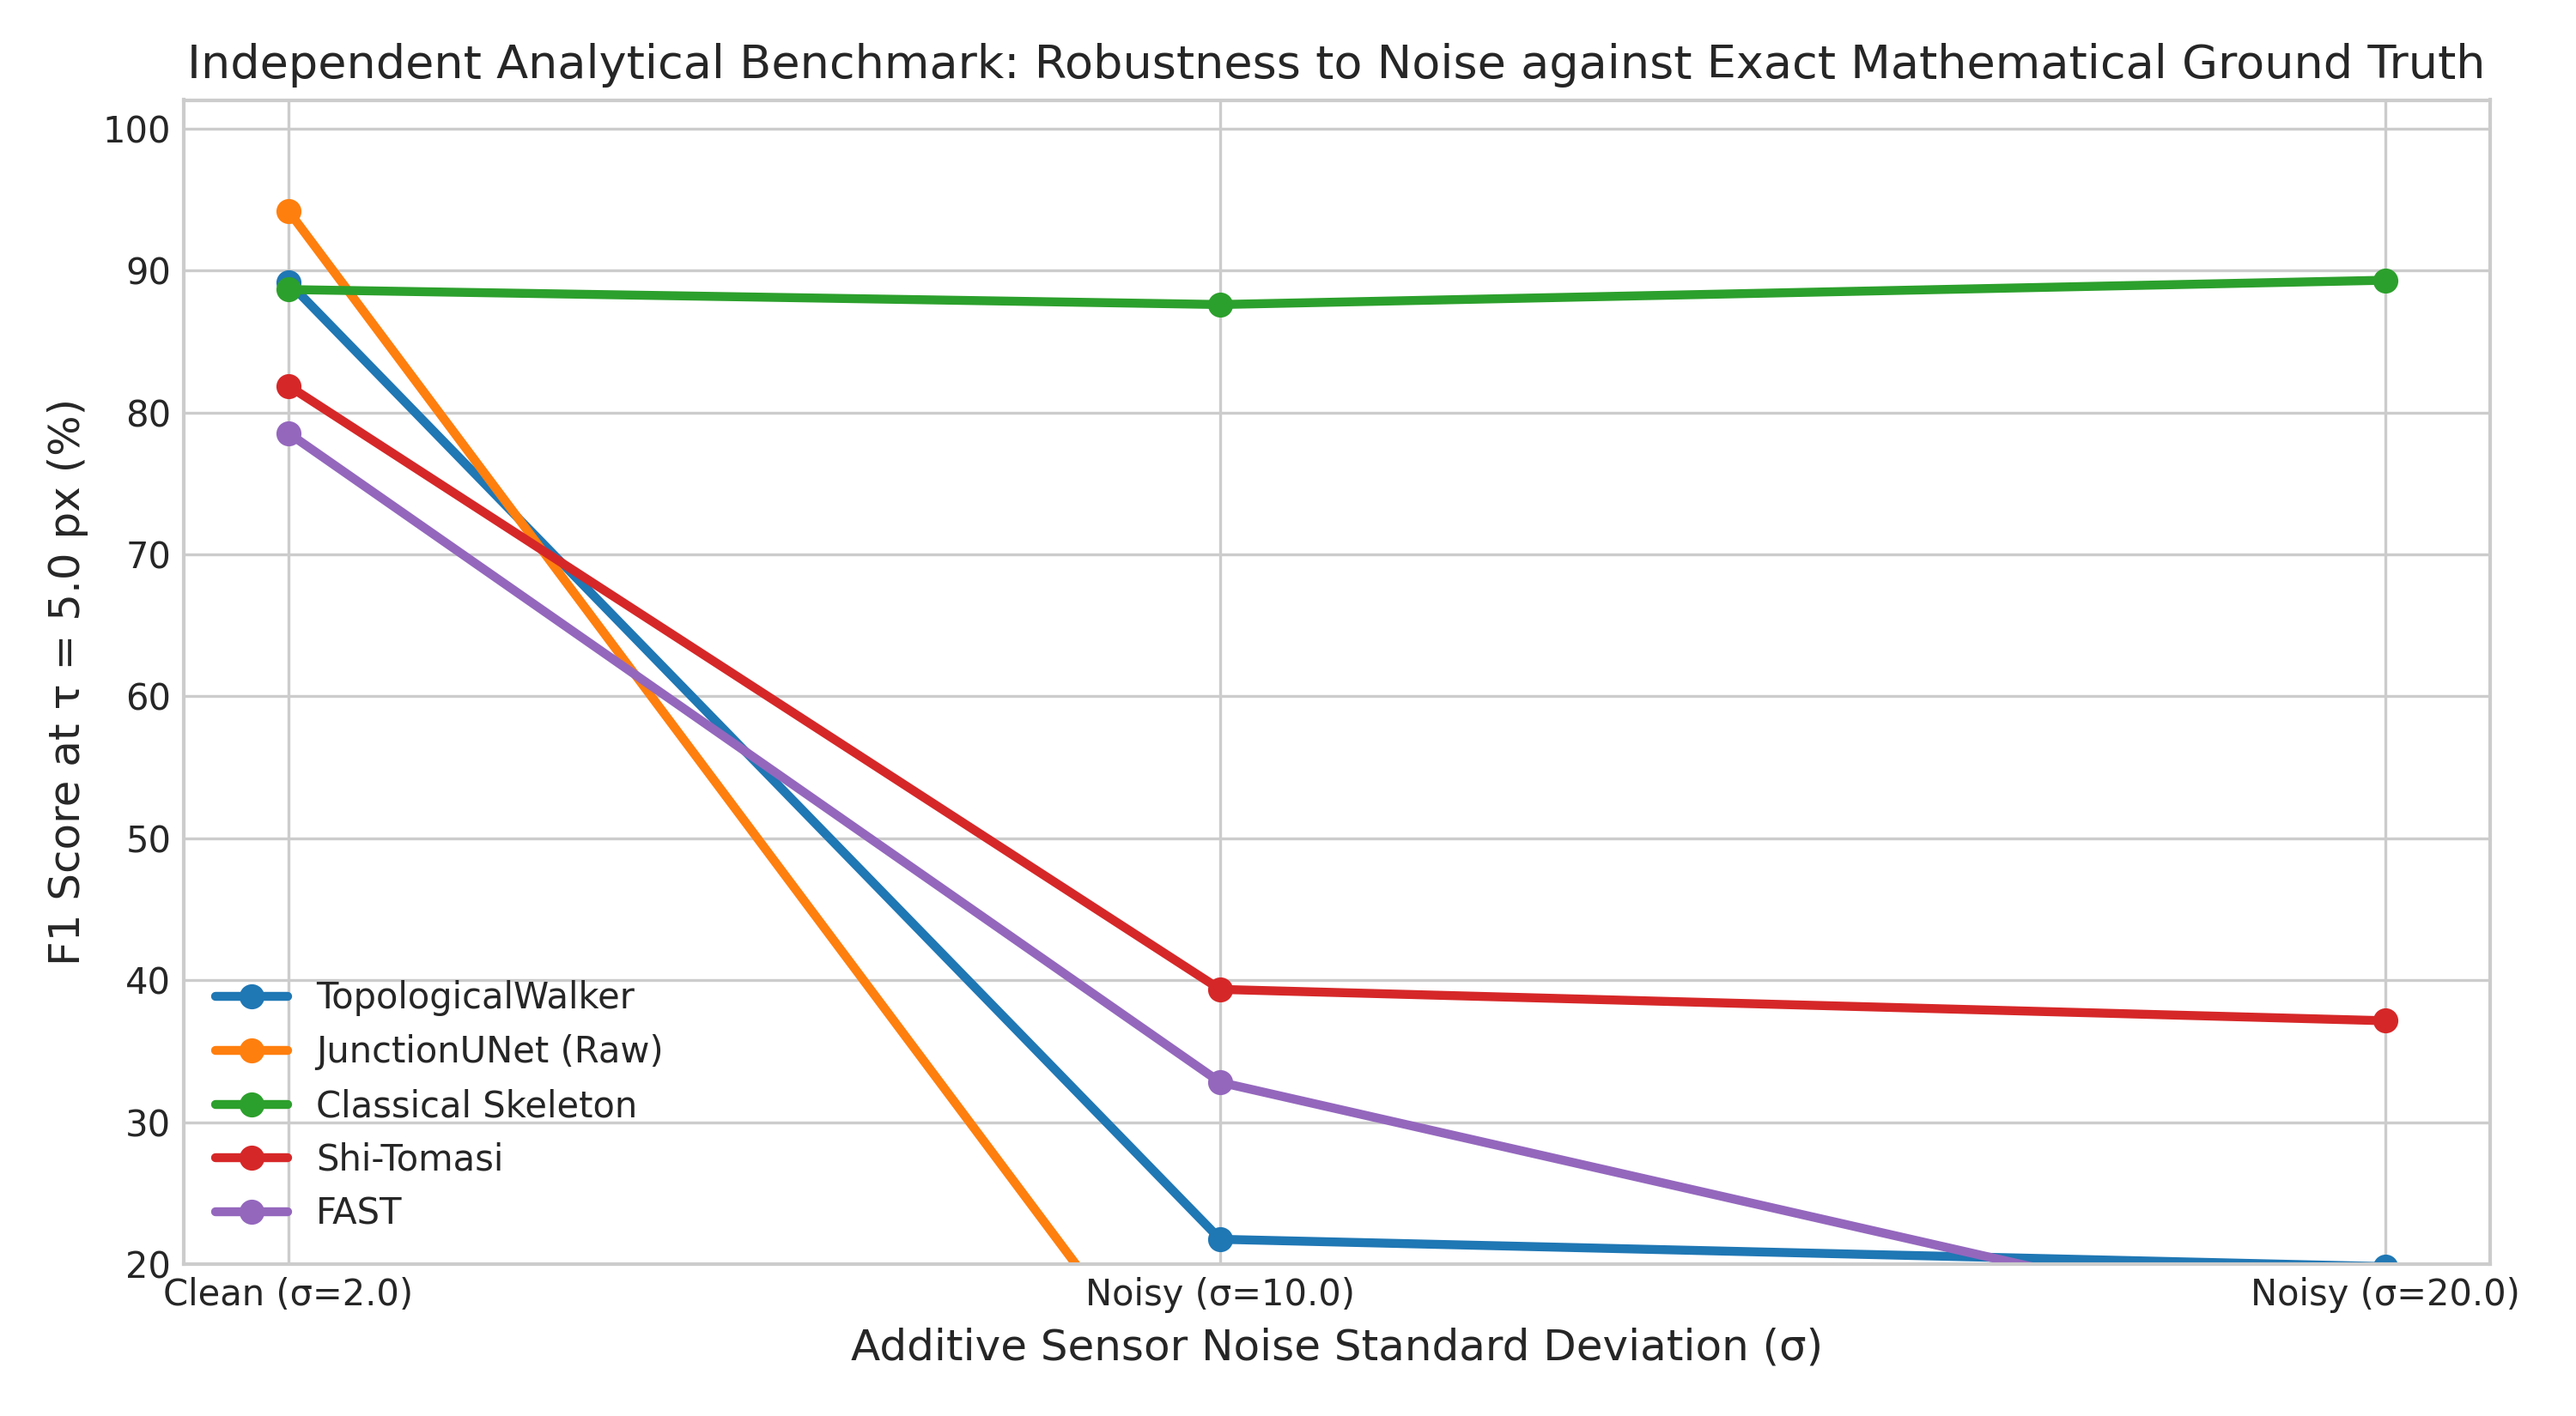
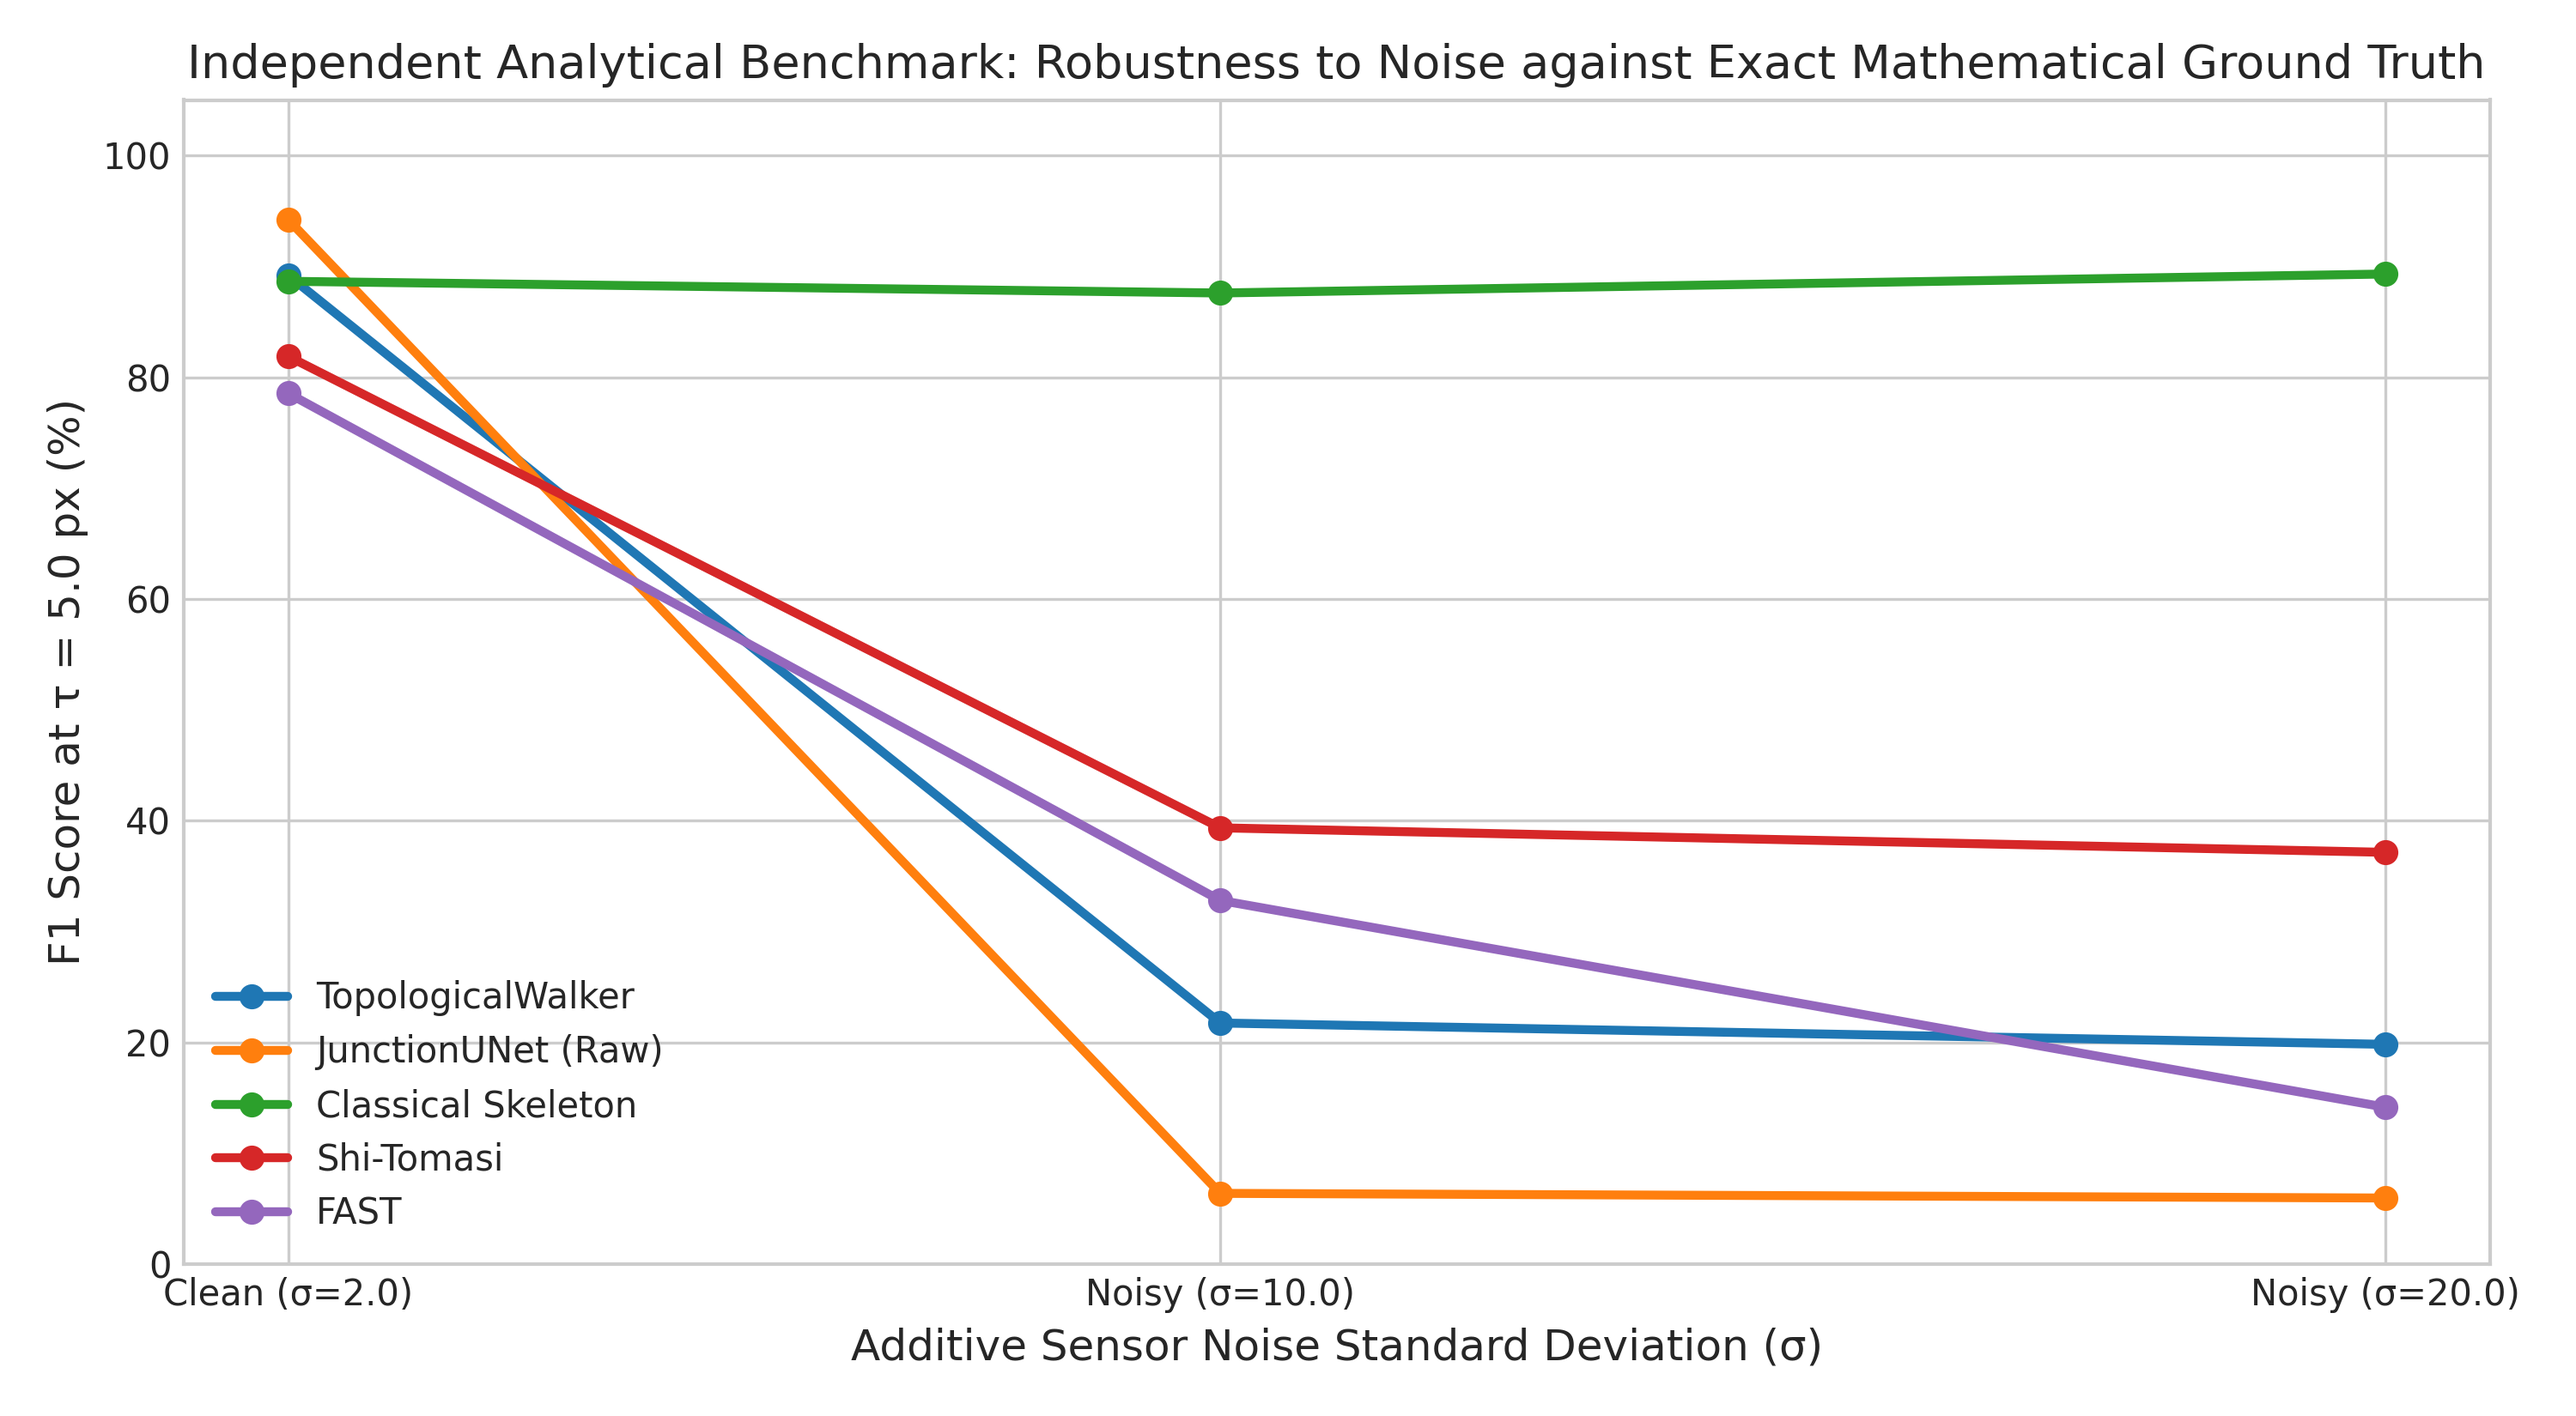
fix(plots): enhance benchmark visual overlays and fix matplotlib tick warnings

diff --git a/src/analysis/plot_empirical_findings.py b/src/analysis/plot_empirical_findings.py
@@ -96,6 +96,7 @@ def plot_baselines_dashboard(csv_path: Path):
     ax.axhline(1.0, color="gray", linestyle="--", linewidth=1.2, label="1.0 px Sub-Pixel Threshold")
     ax.set_ylabel("Mean Euclidean Error (pixels)")
     ax.set_title("(C) Spatial Localization Accuracy on True Positive Junctions")
+    ax.set_xticks(range(len(methods)))
     ax.set_xticklabels(methods, rotation=25, ha="right")
     ax.legend(loc="upper right")
     for bar in bars:
@@ -110,6 +111,7 @@ def plot_baselines_dashboard(csv_path: Path):
     ax.set_ylabel("Latency per Wing (ms, Log Scale)")
     ax.set_yscale("log")
     ax.set_title("(D) Computational Efficiency & Throughput")
+    ax.set_xticks(range(len(methods)))
     ax.set_xticklabels(methods, rotation=25, ha="right")
     for i, lat in enumerate(latencies):
         ax.annotate(f"{lat:.1f} ms", xy=(i, lat), xytext=(0, 4),
@@ -229,7 +231,7 @@ def plot_biological_hypotheses(json_path: Path, features_csv: Path):
     ax = axes[1, 0]
     fore_comp = df[df["wing_type"] == "forewing"]["wing_compactness_mec"]
     hind_comp = df[df["wing_type"] == "hindwing"]["wing_compactness_mec"]
-    bp = ax.boxplot([fore_comp.dropna(), hind_comp.dropna()], labels=["Forewing", "Hindwing"],
+    bp = ax.boxplot([fore_comp.dropna(), hind_comp.dropna()], tick_labels=["Forewing", "Hindwing"],
                     patch_artist=True, widths=0.5)
     colors = ["#3288bd", "#d53e4f"]
     for patch, c in zip(bp["boxes"], colors):
@@ -254,7 +256,7 @@ def plot_biological_hypotheses(json_path: Path, features_csv: Path):
     fams = ["Gomphidae", "Aeshnidae", "Libellulidae", "Corduliidae"]
     fam_data = [df[df["fam"] == f]["aspect_ratio"].dropna() for f in fams]
 
-    bp2 = ax.boxplot(fam_data, labels=fams, patch_artist=True, widths=0.5)
+    bp2 = ax.boxplot(fam_data, tick_labels=fams, patch_artist=True, widths=0.5)
     fam_colors = ["#66c2a5", "#fc8d62", "#8da0cb", "#e78ac3"]
     for patch, c in zip(bp2["boxes"], fam_colors):
         patch.set_facecolor(c)
@@ -294,7 +296,8 @@ def plot_synthetic_benchmark(csv_path: Path):
     ax.set_title("Independent Analytical Benchmark: Robustness to Noise against Exact Mathematical Ground Truth")
     ax.set_xticks(noise_levels)
     ax.set_xticklabels([f"Clean (σ={n})" if n==2 else f"Noisy (σ={n})" for n in noise_levels])
-    ax.set_ylim(20, 102)
+    ax.set_ylim(0, 105)
+    ax.set_yticks(range(0, 101, 20))
     ax.legend(loc="lower left")
 
     plt.tight_layout()
@@ -331,7 +334,7 @@ def plot_pigmented_stress_test(csv_path: Path):
     # Panel B: False Positive Distribution Comparison
     ax = axes[1]
     bp = ax.boxplot([df["tw_pigment_fp_rate_pct"], df["unet_pigment_fp_rate_pct"]],
-                    labels=["TopologicalWalker", "JunctionUNet"], patch_artist=True, widths=0.45)
+                    tick_labels=["TopologicalWalker", "JunctionUNet"], patch_artist=True, widths=0.45)
     bp["boxes"][0].set_facecolor("#1f77b4")
     bp["boxes"][1].set_facecolor("#ff7f0e")
     for patch in bp["boxes"]:

diff --git a/src/benchmark/plot_unified_benchmark.py b/src/benchmark/plot_unified_benchmark.py
@@ -70,7 +70,7 @@ def plot_visual_4panel_comparison(
     s_gt = synth_gt[s_valid] - np.array([300, 100], dtype=np.float32)
 
     # 3. PNAS Real Dragonfly
-    p_crop, p_gt, _ = load_pnas_dragonfly_benchmark(crop_box=(450, 650, 1100, 1400))
+    p_crop, p_gt, _ = load_pnas_dragonfly_benchmark(crop_box=(300, 500, 2200, 2500))
 
     # 4. DRIVE Retina
     d_full, d_gt, _ = load_drive_retina_benchmark(index=1)
@@ -119,9 +119,11 @@ def plot_visual_4panel_comparison(
         # Column 1: Ground Truth Overlay
         axes[row_idx, 1].imshow(img, cmap="gray")
         if len(gt) > 0:
-            axes[row_idx, 1].scatter(gt[:, 0], gt[:, 1], c="#00FF66", s=22, edgecolors="black", linewidths=0.5, label="Ground Truth")
+            axes[row_idx, 1].scatter(gt[:, 0], gt[:, 1], c="#00E676", s=28, edgecolors="black", linewidths=0.7, label="Ground Truth")
         axes[row_idx, 1].set_title(f"Ground Truth Junctions\n(N = {len(gt)})", fontsize=11, fontweight="bold")
         axes[row_idx, 1].axis("off")
+        if row_idx == 0:
+            axes[row_idx, 1].legend(loc="lower right", fontsize=8.5, framealpha=0.85)
 
         # Column 2: UNet Prediction Overlay
         axes[row_idx, 2].imshow(img, cmap="gray")
@@ -129,12 +131,14 @@ def plot_visual_4panel_comparison(
             tp_pts = preds[tp_pred]
             fp_pts = preds[~tp_pred]
             if len(tp_pts) > 0:
-                axes[row_idx, 2].scatter(tp_pts[:, 0], tp_pts[:, 1], c="#00E5FF", s=24, marker="o", edgecolors="black", linewidths=0.5, label="True Positive (<=5px)")
+                axes[row_idx, 2].scatter(tp_pts[:, 0], tp_pts[:, 1], c="#0055FF", s=30, marker="o", edgecolors="black", linewidths=0.8, label="True Positive (<=5px)")
             if len(fp_pts) > 0:
-                axes[row_idx, 2].scatter(fp_pts[:, 0], fp_pts[:, 1], c="#FF1744", s=18, marker="x", linewidths=1.0, label="False Positive")
+                axes[row_idx, 2].scatter(fp_pts[:, 0], fp_pts[:, 1], c="#FF1744", s=26, marker="x", linewidths=1.3, label="False Positive")
 
         axes[row_idx, 2].set_title(f"JunctionUNet Detection\nF1@5px = {f1*100:.1f}% | P = {p*100:.1f}%, R = {r*100:.1f}%", fontsize=11, fontweight="bold")
         axes[row_idx, 2].axis("off")
+        if row_idx == 0:
+            axes[row_idx, 2].legend(loc="lower right", fontsize=8.5, framealpha=0.85)
 
     plt.tight_layout()
     plt.savefig(out_file, dpi=300, bbox_inches="tight")

diff --git a/README.md b/README.md
@@ -164,7 +164,7 @@ This 4-panel dashboard illustrates comparative performance across 69 held-out te
 
 ![Unified Benchmark Performance Comparison](training_output/empirical/plots/unified_benchmark_performance_comparison.png)
 
-- **Panel 1 (Visual Overlays across 5 Domains)**: Qualitative detections across Abstract Geometric Voronoi, Realistic Synthetic Dragonfly, Real Photographic Dragonfly Wing (PNAS 2018), Clinical Retinal Vasculature (DRIVE), and Botanical Leaf Venation (HALVS). True positives ($\tau \le 5.0\text{ px}$) are marked in cyan; false positives in red.
+- **Panel 1 (Visual Overlays across 5 Domains)**: Qualitative detections across Abstract Geometric Voronoi, Realistic Synthetic Dragonfly, Real Photographic Dragonfly Wing (PNAS 2018), Clinical Retinal Vasculature (DRIVE), and Botanical Leaf Venation (HALVS). True positives ($\tau \le 5.0\text{ px}$) are marked in royal blue; false positives in red.
 - **Panel 2 (Comparative Performance & Noise Curves)**: Bar comparison across all 7 benchmark conditions and dual noise robustness curves demonstrating graceful performance retention on clean networks and constant $O(1)$ latency.
 
 ---
